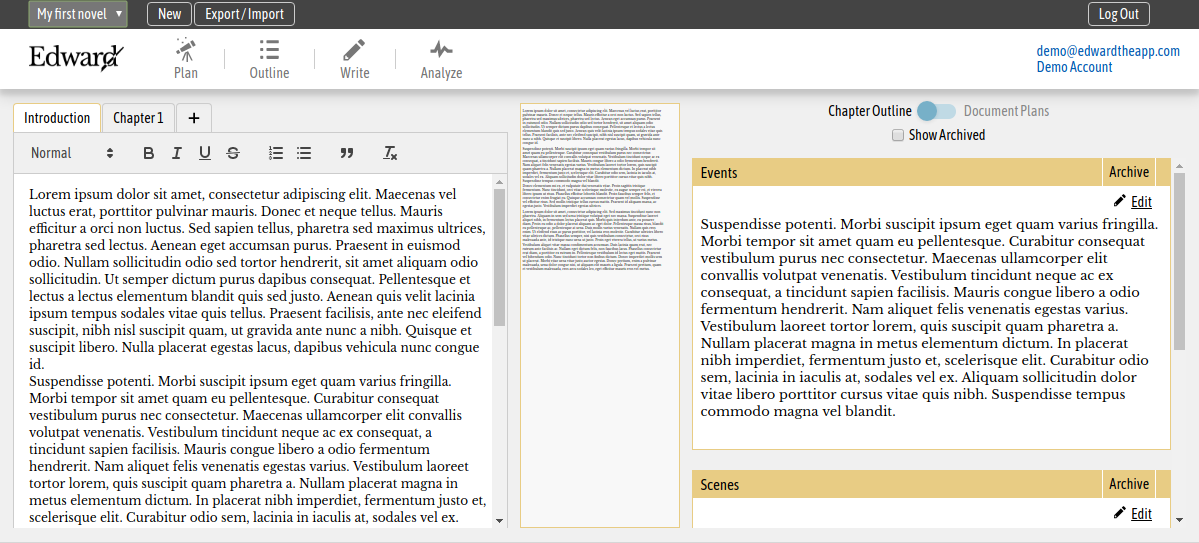
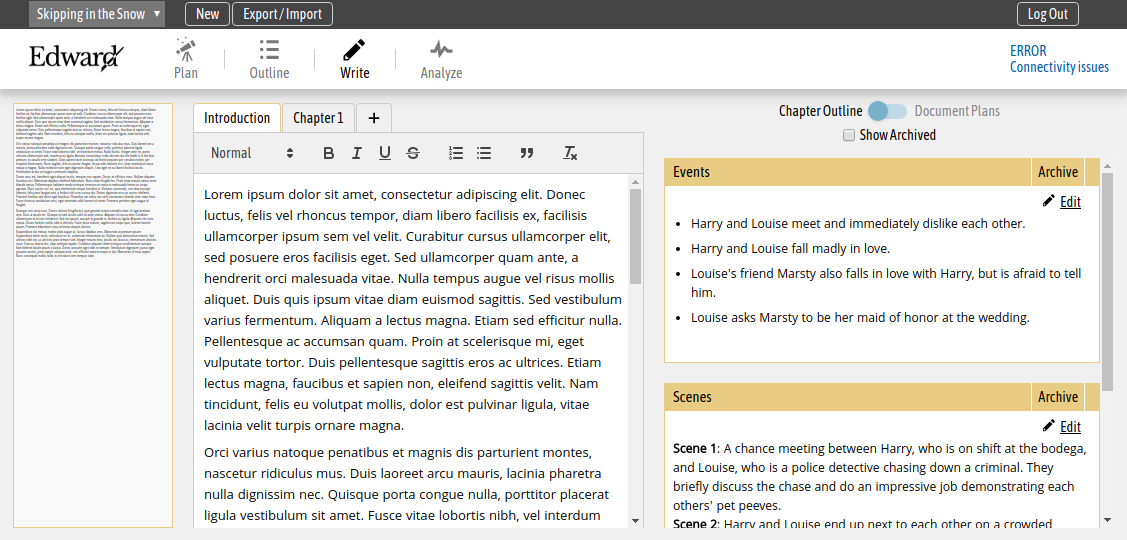
Update app screenshot and landing page for new features

diff --git a/index.html b/index.html
@@ -68,7 +68,7 @@
     <div class="background-yellow">
       <div class="content">
         <p>
-          On the left is a text editor, with a row of tabs above it so you can switch between chapters with a single click. Next to it is your chapter in miniature, with a built-in magnifier so you can scan your chapter on the fly. And on the right is your outline, containing anything you want to keep handy while you write.
+          Front and center is a text editor, with a row of tabs above it so you can switch between chapters with a single click. On the left is your chapter in miniature, with a built-in magnifier so you can scan your chapter on the fly. And on the right is your outline, containing anything you want to keep handy while you write.
         </p>
         <p>
           Edward is all about conquering the blank page, and he's very good at it.
@@ -86,6 +86,9 @@
           </li>
           <li>
             Instant search. Highlight a word or phrase to see every occurrence of it highlighted in the mini map. Click a highlight to jump to it.
+          </li>
+          <li>
+            On-demand dictionary/thesaurus. Highlight a word, then hover the book icon to jump to a definition or a list of synonyms.
           </li>
           <li>
             A permanent, fully restorable archive. Get chapters and outlines out of the way without deleting them forever.
@@ -112,7 +115,6 @@
         <ul>
           <li>Auto-save your work to the cloud and work on it from any computer, anywhere.</li>
           <li>Tools to help you overcome writer's block.</li>
-          <li>Contextual writing tools like an on-demand dictionary/thesaurus.</li>
           <li>Support Edward with a monthly subscription.</li>
           <li>And more!</li>
         </ul>
